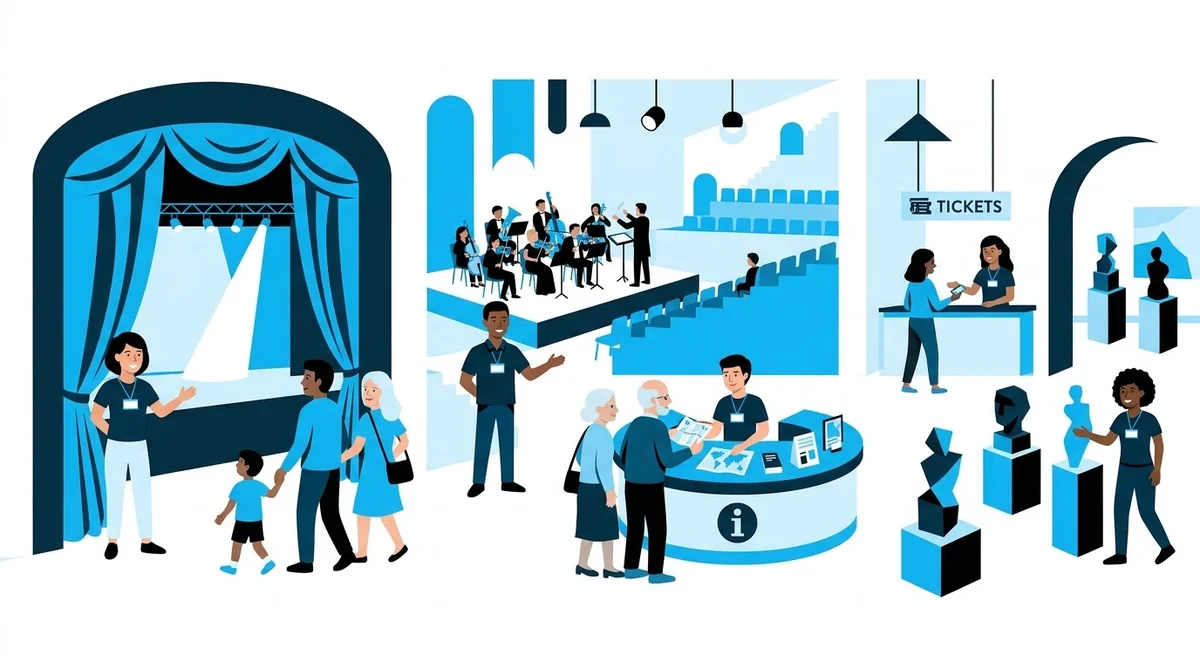
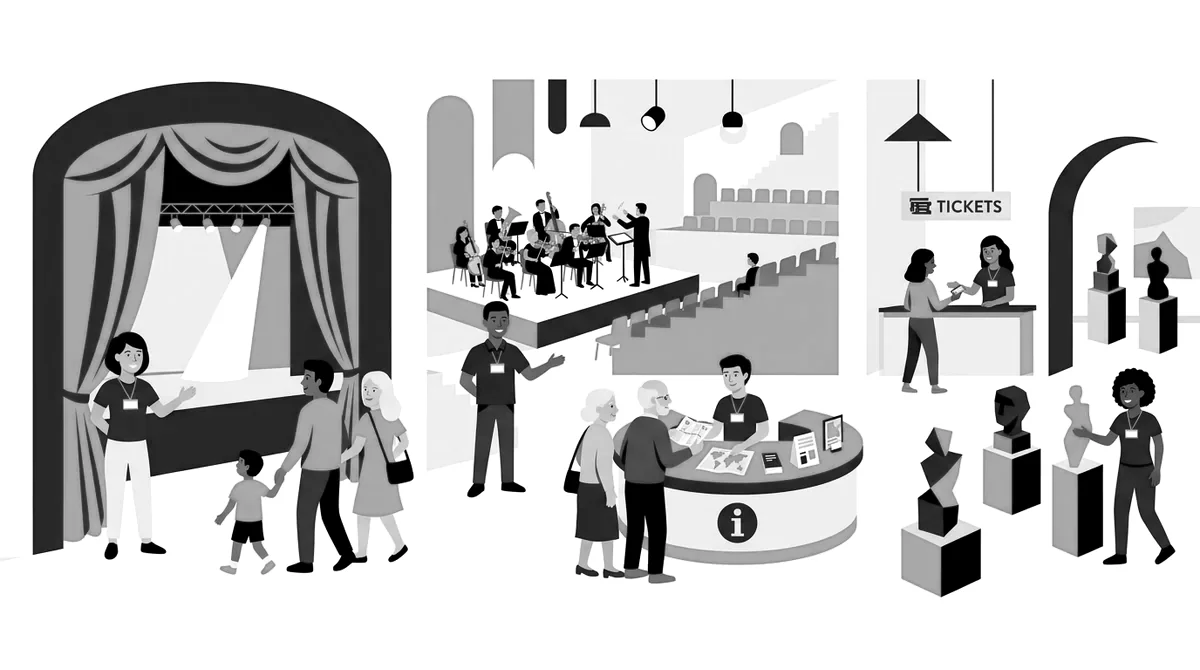
Monochrom im Apple-Stil: Schwarz/Weiß/Grau, Blau nur für Buttons und Links
- Icons, Zahlen, Eyebrows, Schritte, Chips und Fortschritt in Schwarz/Grau
- Schwarzer Gesucht-Block -> hellgrau mit weißen Karten
- Illustration in Graustufen

Claude-Session: https://claude.ai/code/session_012SFPEjAgZJ1K36ny6vx27y

diff --git a/ehrenamt-website/app/page.tsx b/ehrenamt-website/app/page.tsx
@@ -45,7 +45,7 @@ export default function HomePage() {
       {/* Hero – zentriert, ruhig, große Typo */}
       <section className="overflow-hidden bg-paper dark:bg-night">
         <Container className="pt-16 text-center sm:pt-24">
-          <p className="text-lg font-semibold text-brand-dark dark:text-[#2997ff]">
+          <p className="text-lg font-semibold text-ink-soft dark:text-white/60">
             {site.name} · seit {site.founded}
           </p>
           <h1 className="mx-auto mt-4 max-w-5xl text-[2.9rem] leading-[1.04] sm:text-8xl">
@@ -102,7 +102,7 @@ export default function HomePage() {
                 href={`/einsatzorte/#${k.id}`}
                 className="group flex h-[26rem] flex-col rounded-[28px] bg-paper p-6 sm:p-8 no-underline transition-[box-shadow,scale] duration-300 ease-out hover:shadow-[0_4px_24px_rgba(0,0,0,0.06)] motion-safe:hover:scale-[1.015] dark:bg-night"
               >
-                <CultureIcon name={k.icon} size={44} className="text-brand dark:text-[#2997ff]" />
+                <CultureIcon name={k.icon} size={44} className="text-ink dark:text-white" />
                 <h3 className="mt-auto text-3xl">{k.title}</h3>
                 <p className="mt-3 text-lg text-ink-soft dark:text-white/70">{k.intro}</p>
                 <p className="mt-5 text-lg text-brand-dark dark:text-[#2997ff]">
@@ -126,7 +126,7 @@ export default function HomePage() {
           <ol className="mt-12 grid grid-cols-1 gap-6 md:grid-cols-3">
             {schritte.map((s, i) => (
               <li key={s.title} data-reveal className="rounded-[28px] bg-mist p-6 sm:p-8 dark:bg-night-raised">
-                <span className="font-display text-5xl font-semibold text-brand dark:text-[#2997ff]">{i + 1}</span>
+                <span className="font-display text-5xl font-semibold text-ink-soft dark:text-white/50">{i + 1}</span>
                 <h3 className="mt-6 text-2xl">{s.title}</h3>
                 <p className="mt-2 text-lg text-ink-soft dark:text-white/70">{s.text}</p>
               </li>
@@ -141,13 +141,13 @@ export default function HomePage() {
       </section>
 
       {/* Gesucht – Swipe, dunkel */}
-      <section className="bg-black py-16 text-white sm:py-24">
+      <section className="bg-mist py-12 sm:py-24 dark:bg-night-raised/50">
         <Container className="mb-8 flex flex-col gap-3 sm:flex-row sm:items-end sm:justify-between">
           <div data-reveal>
-            <h2 className="text-4xl text-white sm:text-6xl dark:text-white">Aktuell gesucht.</h2>
-            <p className="mt-3 max-w-xl text-xl text-white/60">Diese Einrichtungen freuen sich gerade besonders über Hilfe.</p>
+            <h2 className="text-4xl sm:text-6xl">Aktuell gesucht.</h2>
+            <p className="mt-3 max-w-xl text-xl text-ink-soft dark:text-white/70">Diese Einrichtungen freuen sich gerade besonders über Hilfe.</p>
           </div>
-          <Link href="/aktiv-werden/#wir-suchen" className="shrink-0 text-lg text-[#2997ff] no-underline hover:underline">
+          <Link href="/aktiv-werden/#wir-suchen" className="shrink-0 text-lg text-brand-dark no-underline hover:underline dark:text-[#2997ff]">
             Alle {gesuche.length} Gesuche ›
           </Link>
         </Container>
@@ -156,11 +156,11 @@ export default function HomePage() {
             <Slide key={g.id}>
               <Link
                 href={`/aktiv-werden/#gesucht-${g.id}`}
-                className="flex h-[19rem] flex-col rounded-[28px] bg-[#1c1c1e] p-6 sm:p-8 text-white no-underline transition-[background-color] duration-300 hover:bg-[#2c2c2e]"
+                className="flex h-[19rem] flex-col rounded-[28px] bg-paper p-6 sm:p-8 no-underline transition-[box-shadow] duration-300 hover:shadow-[0_4px_24px_rgba(0,0,0,0.06)] dark:bg-night"
               >
-                <p className="text-base text-white/50">{g.place}</p>
-                <h3 className="mt-auto text-2xl text-white dark:text-white">{g.title}</h3>
-                <p className="mt-4 text-lg text-[#2997ff]">Mehr erfahren ›</p>
+                <p className="text-base text-ink-soft dark:text-white/50">{g.place}</p>
+                <h3 className="mt-auto text-2xl">{g.title}</h3>
+                <p className="mt-4 text-lg text-brand-dark dark:text-[#2997ff]">Mehr erfahren ›</p>
               </Link>
             </Slide>
           ))}
@@ -190,7 +190,7 @@ export default function HomePage() {
       {/* Spenden */}
       <section className="px-4 pb-16 sm:px-8 sm:pb-24">
         <div data-reveal className="mx-auto max-w-6xl rounded-[36px] bg-mist px-6 py-16 text-center sm:py-24 dark:bg-night-raised">
-          <Icon name="heart" className="mx-auto size-12 text-brand dark:text-[#2997ff]" />
+          <Icon name="heart" className="mx-auto size-12 text-ink dark:text-white" />
           <h2 className="mx-auto mt-6 max-w-3xl text-4xl sm:text-6xl">Kultur braucht Unterstützung.</h2>
           <p className="mx-auto mt-5 max-w-2xl text-xl text-ink-soft dark:text-white/70">
             Wir finanzieren uns ausschließlich über Zuschüsse, Förderbeiträge und Spenden. Jeder Beitrag hält die

diff --git a/ehrenamt-website/app/aktiv-werden/page.tsx b/ehrenamt-website/app/aktiv-werden/page.tsx
@@ -32,7 +32,7 @@ export default function AktivWerdenPage() {
 
       <section id="anmelden" className="scroll-mt-24 px-4 sm:px-8">
         <div className="mx-auto max-w-3xl rounded-[36px] bg-mist p-6 sm:p-12 dark:bg-night-raised">
-          <p className="text-lg font-semibold text-brand-dark dark:text-[#2997ff]">In 2 Minuten online</p>
+          <p className="text-lg font-semibold text-ink-soft dark:text-white/60">In 2 Minuten online</p>
           <h2 className="mt-2 mb-8 text-4xl sm:text-5xl">Jetzt unverbindlich melden.</h2>
           <AktivWerdenForm />
         </div>
@@ -45,7 +45,7 @@ export default function AktivWerdenPage() {
         <ol className="grid grid-cols-1 gap-6 lg:grid-cols-3">
           <li>
             <Card className="h-full">
-              <span className="grid size-12 place-items-center rounded-full bg-brand font-display text-xl font-semibold text-white">1</span>
+              <span className="grid size-12 place-items-center rounded-full bg-ink font-display text-xl font-semibold text-white dark:bg-white dark:text-ink">1</span>
               <h3 className="mt-5 text-2xl">Fragebogen ausfüllen</h3>
               <p className="mt-3 text-lg">
                 Füllen Sie den Fragebogen am Computer aus, speichern Sie ihn und schicken Sie ihn per E-Mail an{" "}
@@ -61,7 +61,7 @@ export default function AktivWerdenPage() {
           </li>
           <li>
             <Card className="h-full">
-              <span className="grid size-12 place-items-center rounded-full bg-brand font-display text-xl font-semibold text-white">2</span>
+              <span className="grid size-12 place-items-center rounded-full bg-ink font-display text-xl font-semibold text-white dark:bg-white dark:text-ink">2</span>
               <h3 className="mt-5 text-2xl">Kennenlerngespräch</h3>
               <p className="mt-3 text-lg">
                 Anhand Ihrer Antworten suchen wir passende Einsatzmöglichkeiten. Danach laden wir Sie zu einem persönlichen
@@ -71,7 +71,7 @@ export default function AktivWerdenPage() {
           </li>
           <li>
             <Card className="h-full">
-              <span className="grid size-12 place-items-center rounded-full bg-brand font-display text-xl font-semibold text-white">3</span>
+              <span className="grid size-12 place-items-center rounded-full bg-ink font-display text-xl font-semibold text-white dark:bg-white dark:text-ink">3</span>
               <h3 className="mt-5 text-2xl">Mitglied werden</h3>
               <p className="mt-3 text-lg">
                 Drucken Sie die Beitrittserklärung aus, unterschreiben Sie sie und schicken Sie sie per Post – oder
@@ -129,7 +129,7 @@ export default function AktivWerdenPage() {
                   <ul className="mt-5 space-y-2 text-lg">
                     {g.facts.map((f) => (
                       <li key={f} className="flex gap-3">
-                        <span aria-hidden="true" className="mt-2 size-2.5 shrink-0 rounded-full bg-brand" />
+                        <span aria-hidden="true" className="mt-2 size-2.5 shrink-0 rounded-full bg-ink-soft dark:bg-white/50" />
                         {f}
                       </li>
                     ))}

diff --git a/ehrenamt-website/app/kontakt/page.tsx b/ehrenamt-website/app/kontakt/page.tsx
@@ -20,7 +20,7 @@ export default function KontaktPage() {
       <Section>
         <div className="grid grid-cols-1 gap-6 md:grid-cols-3">
           <Card className="flex flex-col">
-            <Icon name="mail" className="size-10 text-brand-dark dark:text-brand" />
+            <Icon name="mail" className="size-10 text-ink dark:text-white" />
             <h2 className="mt-4 text-2xl">E-Mail</h2>
             <p className="mt-2 text-lg">Am schnellsten erreichen Sie uns per E-Mail.</p>
             <div className="mt-auto pt-5">
@@ -30,7 +30,7 @@ export default function KontaktPage() {
             </div>
           </Card>
           <Card className="flex flex-col">
-            <Icon name="phone" className="size-10 text-brand-dark dark:text-brand" />
+            <Icon name="phone" className="size-10 text-ink dark:text-white" />
             <h2 className="mt-4 text-2xl">Telefon</h2>
             <p className="mt-2 text-lg">Das Büro ist nicht immer besetzt – bei Bedarf rufen wir gern zurück.</p>
             <div className="mt-auto pt-5">
@@ -40,7 +40,7 @@ export default function KontaktPage() {
             </div>
           </Card>
           <Card className="flex flex-col">
-            <Icon name="pin" className="size-10 text-brand-dark dark:text-brand" />
+            <Icon name="pin" className="size-10 text-ink dark:text-white" />
             <h2 className="mt-4 text-2xl">Geschäftsstelle</h2>
             <address className="mt-2 mb-5 text-lg not-italic">
               {site.name}

diff --git a/ehrenamt-website/app/einsatzorte/page.tsx b/ehrenamt-website/app/einsatzorte/page.tsx
@@ -46,7 +46,7 @@ export default function EinsatzortePage() {
         <section key={k.id} id={k.id} className="scroll-mt-28 py-12 sm:py-24">
           <Container>
             <div data-reveal className="flex items-center gap-4">
-              <CultureIcon name={k.icon} size={40} className="shrink-0 text-brand dark:text-[#2997ff]" />
+              <CultureIcon name={k.icon} size={40} className="shrink-0 text-ink dark:text-white" />
               <h2 className="text-3xl sm:text-5xl">{k.title}</h2>
             </div>
             <p className="mt-3 text-xl text-ink-soft dark:text-white/70">{k.intro}</p>
@@ -55,7 +55,7 @@ export default function EinsatzortePage() {
                 <li key={o.id} id={o.id} className="scroll-mt-28">
                   <Card className="h-full">
                     {o.wanted && (
-                      <p className="mb-3 inline-flex rounded-full bg-brand px-3 py-1 text-sm font-medium text-white">
+                      <p className="mb-3 inline-flex rounded-full bg-mist px-3 py-1 text-sm font-medium text-ink dark:bg-night-raised dark:text-white">
                         Verstärkung gesucht
                       </p>
                     )}

diff --git a/ehrenamt-website/components/forms/shared.tsx b/ehrenamt-website/components/forms/shared.tsx
@@ -68,7 +68,7 @@ export function Chip({ type = "checkbox", name, value, checked, onChange, childr
   return (
     <label
       className={`inline-flex min-h-11 cursor-pointer items-center rounded-full px-5 text-base transition-colors select-none has-[:focus-visible]:outline-3 has-[:focus-visible]:outline-offset-2 has-[:focus-visible]:outline-brand ${
-        checked ? "bg-brand text-white" : "bg-paper text-ink ring-1 ring-line hover:ring-ink/40 dark:bg-night dark:text-white dark:ring-white/20"
+        checked ? "bg-ink text-white dark:bg-white dark:text-ink" : "bg-paper text-ink ring-1 ring-line hover:ring-ink/40 dark:bg-night dark:text-white dark:ring-white/20"
       }`}
     >
       <input type={type} name={name} value={value} checked={checked} onChange={onChange} className="sr-only" />

diff --git a/ehrenamt-website/components/map/EinsatzMap.tsx b/ehrenamt-website/components/map/EinsatzMap.tsx
@@ -21,7 +21,7 @@ export function EinsatzMap() {
           <LeafletMap />
         ) : (
           <div className="flex h-full flex-col items-center justify-center gap-6 px-6 text-center">
-            <svg aria-hidden="true" viewBox="0 0 24 24" className="size-12 text-brand dark:text-[#2997ff]" fill="none" stroke="currentColor" strokeWidth="1.5" strokeLinecap="round" strokeLinejoin="round">
+            <svg aria-hidden="true" viewBox="0 0 24 24" className="size-12 text-ink dark:text-white" fill="none" stroke="currentColor" strokeWidth="1.5" strokeLinecap="round" strokeLinejoin="round">
               <path d="M12 21s-7-6.2-7-11.5a7 7 0 0 1 14 0C19 14.8 12 21 12 21z" />
               <circle cx="12" cy="9.5" r="2.5" />
             </svg>

diff --git a/ehrenamt-website/components/forms/AktivWerdenForm.tsx b/ehrenamt-website/components/forms/AktivWerdenForm.tsx
@@ -71,7 +71,7 @@ export function AktivWerdenForm() {
       <ol className="mb-8 grid grid-cols-3 gap-2" aria-label="Fortschritt">
         {steps.map((s, i) => (
           <li key={s} aria-current={i === step ? "step" : undefined}>
-            <span className={`block h-1.5 rounded-full transition-colors duration-300 ${i <= step ? "bg-brand" : "bg-line dark:bg-white/15"}`} />
+            <span className={`block h-1.5 rounded-full transition-colors duration-300 ${i <= step ? "bg-ink dark:bg-white" : "bg-line dark:bg-white/15"}`} />
             <span className={`mt-2 block text-sm ${i === step ? "font-medium text-ink dark:text-white" : "text-ink-soft"}`}>
               {i + 1}. {s}
             </span>

diff --git a/ehrenamt-website/components/ui.tsx b/ehrenamt-website/components/ui.tsx
@@ -36,7 +36,7 @@ export function PageHero({ eyebrow, title, children }: { eyebrow?: string; title
   return (
     <section className="bg-paper dark:bg-night">
       <Container className="pt-16 pb-12 text-center sm:pt-24 sm:pb-16">
-        {eyebrow && <p className="mb-4 text-lg font-semibold text-brand-dark dark:text-[#2997ff]">{eyebrow}</p>}
+        {eyebrow && <p className="mb-4 text-lg font-semibold text-ink-soft dark:text-white/60">{eyebrow}</p>}
         <h1 className="mx-auto max-w-4xl text-[2.6rem] sm:text-7xl">{title}</h1>
         {children && <div className="mx-auto mt-6 max-w-2xl text-xl text-ink-soft sm:text-2xl dark:text-white/70">{children}</div>}
       </Container>

diff --git a/ehrenamt-website/app/ueber-uns/page.tsx b/ehrenamt-website/app/ueber-uns/page.tsx
@@ -179,7 +179,7 @@ export default function UeberUnsPage() {
             </p>
             <Todo>Liste der aktuellen Förderer und Zuschussgeber (mit Einverständnis, ggf. mit Logos) ergänzen.</Todo>
           </div>
-          <Card className="self-start bg-brand-light/30 dark:bg-night-raised">
+          <Card className="self-start dark:bg-night-raised">
             <p className="font-display text-2xl font-semibold text-brand-deep dark:text-paper">Spendenkonto</p>
             <dl className="mt-4 space-y-2 text-lg">
               <div>

diff --git a/ehrenamt-website/app/aktuelles/page.tsx b/ehrenamt-website/app/aktuelles/page.tsx
@@ -55,7 +55,7 @@ export default function AktuellesPage() {
         <ul className="max-w-3xl space-y-2 text-lg">
           {archivDokumente.map((d) => (
             <li key={d} className="flex gap-3">
-              <span aria-hidden="true" className="mt-2.5 size-2.5 shrink-0 rounded-full bg-brand" />
+              <span aria-hidden="true" className="mt-2.5 size-2.5 shrink-0 rounded-full bg-ink-soft dark:bg-white/50" />
               {d}
             </li>
           ))}
